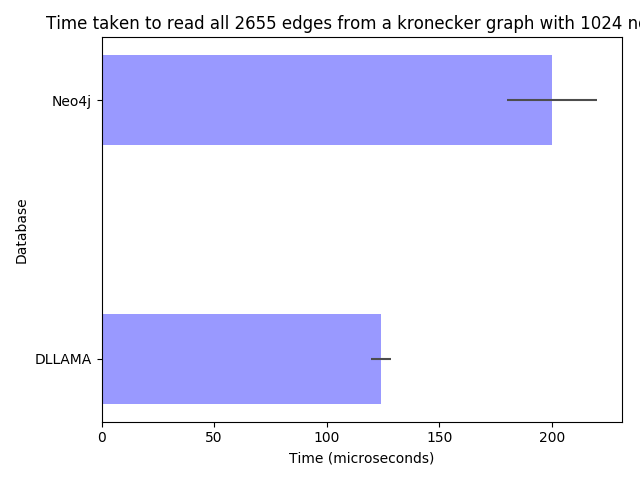
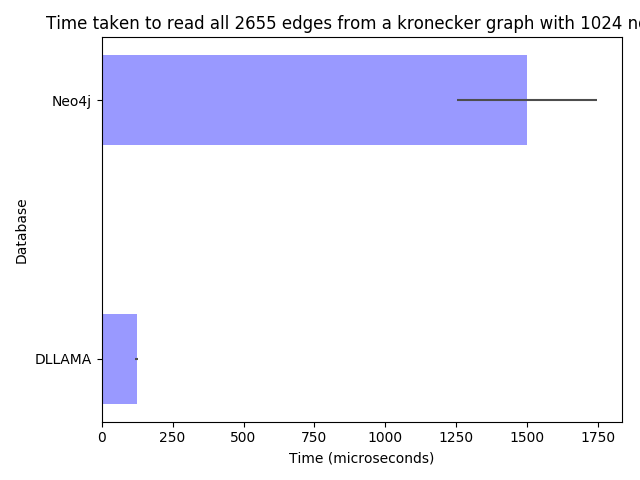
neo4j graphs

diff --git a/dllama/create_graphs.py b/dllama/create_graphs.py
@@ -6,8 +6,8 @@ conn = sqlite3.connect('benchmark_data.db')
 
 c = conn.cursor()
 
-graph_parameters = [('0add_nodes', 'Time taken to add 50000 nodes', 'add_nodes.png', '1add_nodes'),
-					('0add_edges', 'Time taken to add 100 edges to 5000 nodes', 'add_edges.png', '1add_edges')#,
+graph_parameters = [('0add_nodes', 'Time taken to add 50000 nodes', 'add_nodes.png', '1add_nodes', 'neo4j_add_nodes'),
+					('0add_edges', 'Time taken to add 100 edges to 5000 nodes', 'add_edges.png', '1add_edges', 'neo4j_add_edges')#,
 					#('0power', 'Time taken to read all 7196 edges from a power-law graph with 1000 nodes', 'power.png'),
 					#('0kronecker', 'Time taken to read all 2655 edges from a kronecker graph with 1024 nodes', 'kronecker.png'),
 					]
@@ -42,6 +42,14 @@ for parameters in graph_parameters:
 	if parameters[0] == '0add_edges':
 		plt.errorbar(t, simple_dllama_mean_times, yerr=simple_dllama_standard_deviations)
 
+	times = []
+	for row in c.execute('SELECT * FROM data WHERE benchmark = ? ORDER BY benchmark', (parameters[4],)):
+		times.append(row[3] / 1000.0)
+	neo4j_mean_time = [np.mean(times)] * 10
+	neo4j_std = [0.0] * 10
+	neo4j_std[0] = np.std(times)
+	plt.errorbar(t, neo4j_mean_time, yerr=neo4j_std)
+
 	plt.xlabel('number of machines')
 	plt.ylabel('time (milliseconds)')
 	plt.title(parameters[1])
@@ -50,11 +58,11 @@ for parameters in graph_parameters:
 	#plt.show()
 
 
-parameters = [('0read_edges', 'Time taken to read all 100 edges from 5000 nodes', 'read_edges.png'), 
-				('0merge_benchmark', 'Time taken to merge snapshots', 'merge.png'), 
-				('0breadth_first', 'Time taken to complete breadth first search on kronecker graph', 'breadth.png'), 
-				('0power', 'Time taken to read all 7196 edges from a power-law graph with 1000 nodes', 'power.png'), 
-				('0kronecker', 'Time taken to read all 2655 edges from a kronecker graph with 1024 nodes', 'kronecker.png')
+parameters = [('0read_edges', 'Time taken to read all 100 edges from 5000 nodes', 'read_edges.png', 'neo4j_read_edges'), 
+				('0merge_benchmark', 'Time taken to merge snapshots', 'merge.png', 'neo4j_merge'), 
+				('0breadth_first', 'Time taken to complete breadth first search on kronecker graph', 'breadth.png', 'neo4j_breadth_first'), 
+				('0power', 'Time taken to read all 7196 edges from a power-law graph with 1000 nodes', 'power.png', 'neo4j_power'), 
+				('0kronecker', 'Time taken to read all 2655 edges from a kronecker graph with 1024 nodes', 'kronecker.png', 'neo4j_kronecker')
 				]
 
 for param in parameters:
@@ -68,13 +76,27 @@ for param in parameters:
 	means_dllama.append(mean_time)
 	std_dllama.append(np.std(times))
 
-	n_groups = 2
+	if param[3] == 'neo4j_merge':
+		means_neo4j = [0.0]
+		std_neo4j = [0.0]
+		n_groups = 1
+	else:
+		means_neo4j = []
+		std_neo4j = []
+		times = []
+		args = (param[3], 1)
+		for row in c.execute('SELECT * FROM data WHERE benchmark = ? AND num_machines = ? ORDER BY benchmark', args):
+			times.append(row[3])
+		mean_time = np.mean(times)
+		means_neo4j.append(mean_time)
+		std_neo4j.append(np.std(times))
+		n_groups = 2
 
 	#means_dllama = (20, 35, 30, 35, 27)
 	#std_dllama = (2, 3, 4, 1, 2)
 
-	means = [means_dllama[0], 200]
-	stds = [std_dllama[0], 20]
+	means = [means_dllama[0], means_neo4j[0]]
+	stds = [std_dllama[0], std_neo4j[0]]
 
 	fig, ax = plt.subplots()
 	index = np.arange(n_groups)
@@ -101,6 +123,9 @@ for param in parameters:
 
 	fig.tight_layout()
 	plt.title(param[1])
+	xmin, xmax = plt.xlim()
+	plt.xlim(0.0, xmax)
+
 	plt.savefig(param[2])
 
 

diff --git a/dllama/load_files_into_db.py b/dllama/load_files_into_db.py
@@ -17,6 +17,29 @@ output_files = [filename for filename in os.listdir('output3/with prev') if file
 for filename in output_files:
 	print(filename)
 	f = open('output3/with prev/' + filename, 'r')
+	#f = open('neo4j data/' + filename, 'r')
+	skipped_header = False
+	for line in f:
+		#print(line)
+		if skipped_header:
+			if line == '\n':
+				break
+			words = line.split(' ')
+			benchmark = words[0]
+			num_machines = words[1]
+			num_vertices = words[2]
+			for i in range(3, len(words) - 1):
+				time_taken = words[i]
+				c.execute("INSERT INTO data VALUES (?,?,?,?)", (benchmark, num_machines, num_vertices, time_taken))
+		elif line == 'started benchmark\n':
+			skipped_header = True
+	f.close()
+
+output_files = [filename for filename in os.listdir('neo4j data') if filename.startswith("slurm-")]
+for filename in output_files:
+	print(filename)
+	f = open('neo4j data/' + filename, 'r')
+	#f = open('neo4j data/' + filename, 'r')
 	skipped_header = False
 	for line in f:
 		#print(line)
